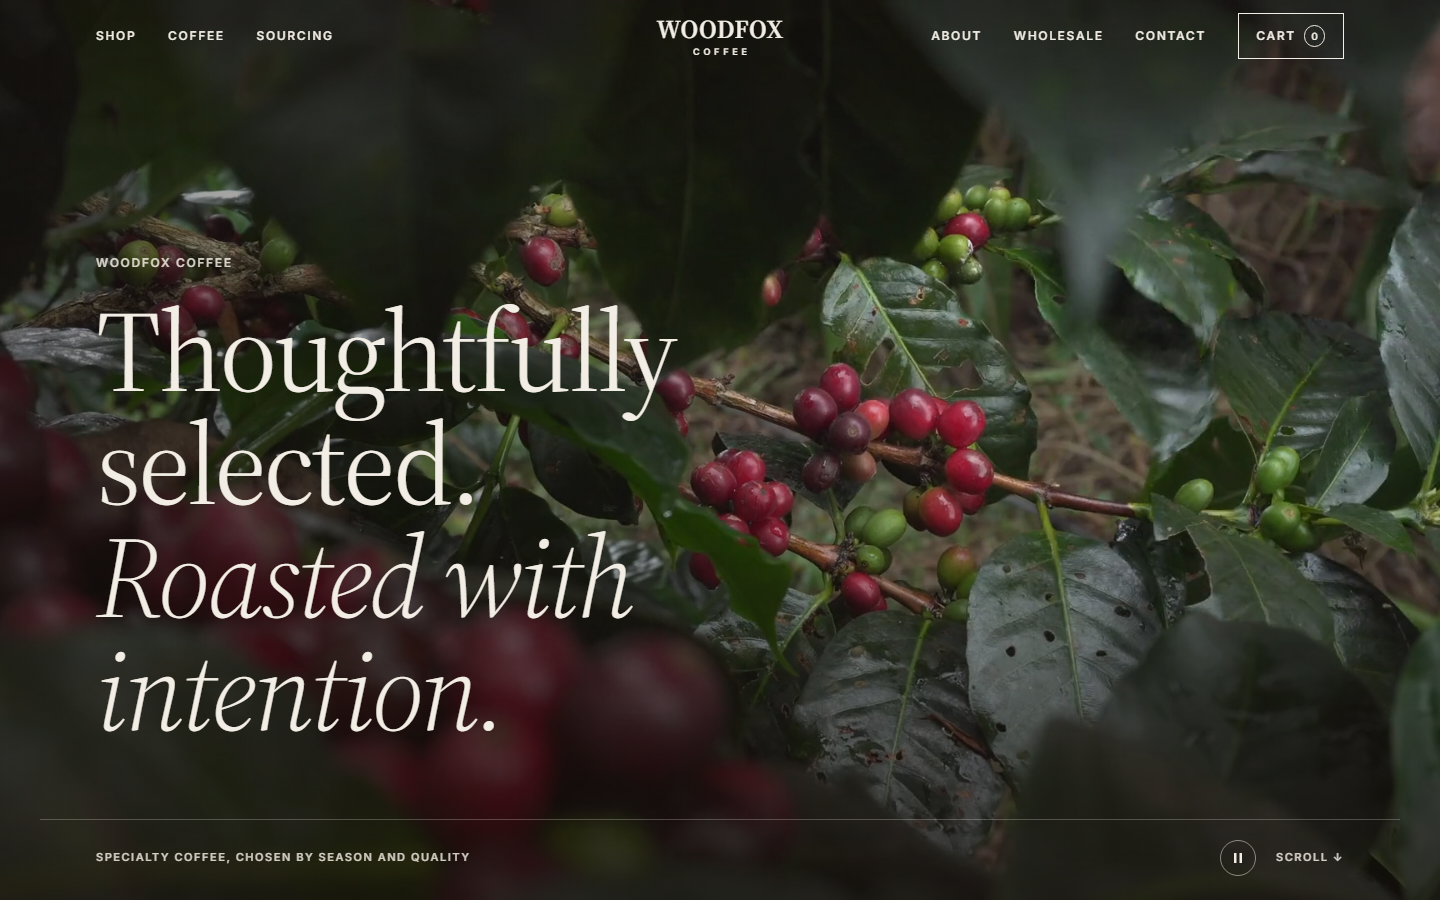
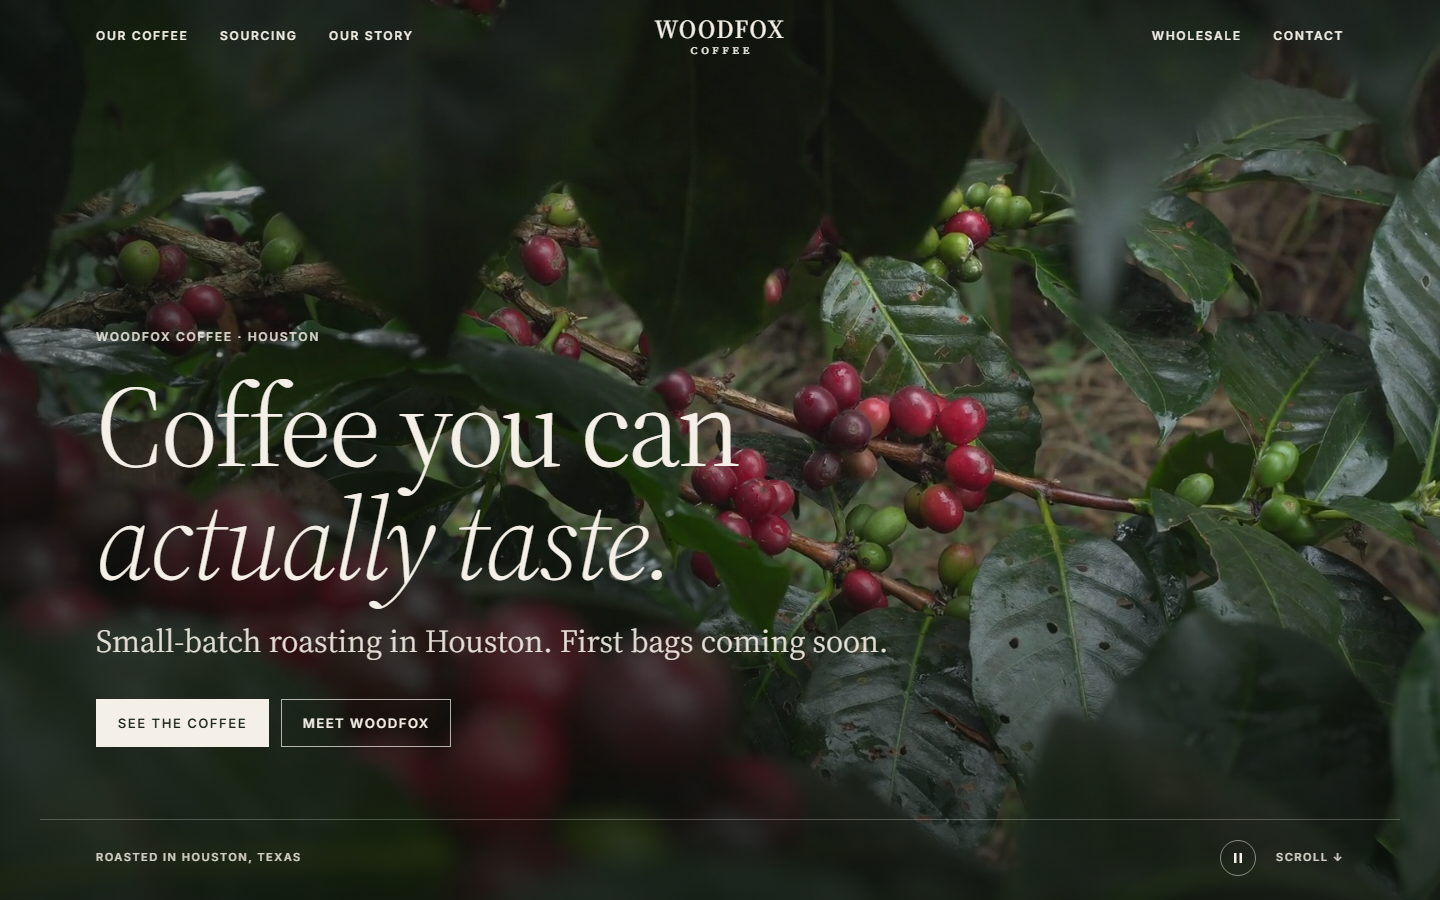
Add NFC business cards project and October build log updates
New NFC Digital Business Cards project with redacted screenshots of three
client cards, plus build log entries on the cards, keeping phone numbers
private, and Woodfox Coffee's production prep. Woodfox case study now
points to woodfoxcoffee.com, shows the packaging concepts, and reflects
ordering being switched off. All-phone-screenshot galleries now sit side
by side.

diff --git a/src/data/site.ts b/src/data/site.ts
@@ -71,7 +71,7 @@ export const repos = [
   },
   {
     name: 'woodfox-roasters',
-    description: 'Website and shop (in preview) for Woodfox Coffee, a young specialty coffee company.',
+    description: 'Website and NFC cards for Woodfox Coffee (woodfoxcoffee.com), a young specialty coffee company.',
     language: 'Astro',
     updated: '2026-10',
   },

diff --git a/src/content/projects/woodfox-roasters.md b/src/content/projects/woodfox-roasters.md
@@ -1,24 +1,25 @@
 ---
 title: Woodfox Coffee
-summary: Website and shop for a young specialty coffee company. Four versions in 2026, from a hand-built page to a content-driven site with a shop, cart and subscriptions in preview.
+summary: Website for a young specialty coffee company, now on its own domain and getting ready to launch. Five versions in 2026, from a hand-built page to a production-ready site with packaging concepts, a plainer voice and NFC event cards.
 status: live
-statusNote: Shop in preview
+statusNote: Pre-launch · ordering off
 year: "2026"
 type: Web product · ecommerce
 categories: [web]
 tech: [Astro, TypeScript, CSS, Markdown content, Browser-stored cart, Stripe-ready checkout]
 links:
-  - { label: Visit live site, href: "https://woodfoxroasters.com/", primary: true }
+  - { label: Visit live site, href: "https://woodfoxcoffee.com/", primary: true }
   - { label: View on GitHub, href: "https://github.com/JRPENA99/woodfox-roasters" }
 cover: ../../assets/projects/woodfox-home.png
-coverAlt: Woodfox Coffee homepage with a full-bleed photo of coffee cherries and the headline "Thoughtfully selected. Roasted with intention."
+coverAlt: Woodfox Coffee homepage with a full-bleed photo of coffee cherries and the headline "Coffee you can actually taste."
 gallery:
-  - src: ../../assets/projects/woodfox-shop.png
-    alt: The Woodfox shop page with filters and a preview notice explaining products are placeholders and checkout isn't taking payments yet.
-    caption: Shop, with an up-front preview notice.
-  - src: ../../assets/projects/woodfox-product.png
-    alt: A Woodfox product page with size, grind, one-time or subscribe-and-save options, quantity and Add to cart.
-    caption: Product page with size, grind and subscribe-and-save. Placeholder product.
+  - src: ../../assets/projects/woodfox-packaging.png
+    alt: The Woodfox Coffee site showing a Single Origin bag mockup labeled In Development and Not on sale yet, with House Blend No. 01 and Espresso Blend listed below.
+    caption: Packaging concepts, clearly labeled as in development and not on sale.
+  - src: ../../assets/build/card-woodfox-event.png
+    alt: A Woodfox Coffee event-team NFC card with Save Contact, call, email and website buttons. Contact details replaced with placeholders.
+    caption: Shared event-team NFC card. Contact details replaced for this screenshot.
+    narrow: true
 timeline:
   - when: Mar 2026
     title: "Version one: hand-built"
@@ -40,13 +41,27 @@ timeline:
     caption: October 1, 2026.
   - when: Oct 2026
     title: "Woodfox Coffee: shop in preview"
-    current: true
     body: Renamed to Woodfox Coffee and added commerce, clearly marked as preview. Products, prices and bag art are placeholders, and checkout explains that payments aren't live.
     points:
       - Filterable shop and product pages with size, grind, and subscribe-and-save (15%)
       - Cart stored in the visitor's browser, so no accounts or server are needed
       - Checkout hands off to a hosted payment page through a configurable endpoint, so card details never touch the site
       - "Next: real products, then Stripe through a small serverless function"
+    image: ../../assets/projects/woodfox-shop.png
+    alt: The Woodfox shop page in preview mode, with a notice that products are placeholders and checkout isn't taking payments.
+    caption: October 4, 2026. The preview shop.
+  - when: Oct 2026
+    title: Getting ready to launch
+    current: true
+    body: Moved to woodfoxcoffee.com and prepared for production. Packaging mockups replaced the drawn placeholders, the palette shifted to forest, rust and copper, and every page was rewritten in a plainer, more human voice. Online ordering is switched off behind a config flag until payments are approved.
+    points:
+      - Three packaging concepts, labeled in development and not on sale
+      - Copy rewrite with no new factual claims
+      - Separate inboxes for general inquiries and orders
+      - NFC cards for the owner and a shared event team
+    image: ../../assets/projects/woodfox-home.png
+    alt: The current Woodfox Coffee homepage with the headline "Coffee you can actually taste." over coffee cherries.
+    caption: woodfoxcoffee.com today.
 featured: true
 order: 1
 ---
@@ -55,7 +70,7 @@ order: 1
 
 Woodfox Coffee is a young specialty coffee company. The site has to introduce the brand, explain how the coffees are chosen, collect interest before the first release, give wholesale buyers a way in, and, now, sell coffee.
 
-It went through four versions in 2026, shown in the progression above. Each one was a response to what the previous one got wrong.
+It went through five versions in 2026, shown in the progression above. Each one was a response to what the previous one got wrong.
 
 ## The Problem
 
@@ -63,19 +78,21 @@ A roaster that buys by season has a menu that keeps changing. The early versions
 
 ## The Idea
 
-Treat the site as a brand story that rarely changes, plus a small content system for the coffees that changes all the time. Then add commerce without adding a backend: the shop and cart run in the browser, and payment happens on a hosted checkout page.
+Treat the site as a brand story that rarely changes, plus a small content system for the coffees that changes all the time. Commerce is built but switched off until the business is ready: the shop and cart run in the browser, and payment will happen on a hosted checkout page.
 
 ## What I Built
 
 - **Information architecture** around how people arrive: Shop, Coffee, Sourcing, About, Wholesale, Contact.
 - **A coffee content collection.** One Markdown file per coffee, with a status (`upcoming`, `available`, `sold-out`) that drives listings and pages.
-- **A shop in preview mode.** Product pages with size, grind and subscribe-and-save; a browser-stored cart; and a checkout page ready to hand off to Stripe or another hosted provider. A visible notice on every shop page says products are placeholders and no payment can be taken.
+- **A shop, built and switched off.** Product pages with size, grind and subscribe-and-save, a browser-stored cart, and a checkout ready to hand off to a hosted provider. It sits behind a config flag, so the live site shows coffees with no prices, cart or checkout until payments are approved.
+- **Packaging concepts** for three coffees, labeled in development and never presented as product specs.
+- **NFC cards** for the owner and a shared event team. See [NFC Digital Business Cards](/projects/nfc-cards/).
 - **Copy refinement.** Most of the iteration was in the words. "How we choose" became five short principles instead of a paragraph of adjectives.
 - **Fast, responsive pages.** Static HTML with very little JavaScript, plus a pause control on the hero video.
 
 ## Ecommerce Considerations
 
-GitHub Pages only serves static files, and a payment provider needs a small piece of server code to create a checkout session securely. The plan is a tiny serverless function that holds the secret key, so the website itself never does. Until real products exist, the checkout says so instead of pretending.
+GitHub Pages only serves static files, and a payment provider needs a small piece of server code to create a checkout session securely. The plan is a tiny serverless function that holds the secret key, so the website itself never does. Until that's approved, ordering stays off rather than pretending to work.
 
 ## Challenges
 
@@ -89,6 +106,6 @@ Separating what changes from what doesn't was the best structural decision. Once
 
 ## What's Next
 
-- Replace placeholder products and photography with Woodfox's own
-- Connect the list and inquiry forms
-- First coffee release, then switch on hosted checkout
+- Finalize the first three coffees and their packaging
+- Connect the inquiry forms to a form service
+- Approve payments, then switch ordering on

diff --git a/src/content/projects/nfc-cards.md b/src/content/projects/nfc-cards.md
@@ -1,0 +1,80 @@
+---
+title: NFC Digital Business Cards
+summary: Tap-to-open business cards for three different clients, each built into the client's own website. One-tap Save Contact, no app, no account, and phone numbers kept off the public web.
+status: live
+year: "2026"
+type: Web product · client work
+categories: [web]
+tech: [Astro, Static HTML, vCard 3.0, NFC (NTAG), Build-time generation, Privacy by design]
+cover: ../../assets/projects/nfc-cards-cover.png
+coverAlt: Three digital business cards side by side on phone screens, a dark technical card, a navy logistics card and a brown coffee-brand card, with names, emails and numbers replaced by placeholders.
+gallery:
+  - src: ../../assets/build/card-portfolio.png
+    alt: A dark digital business card with a JP monogram, Save contact button, email and website rows, and LinkedIn, GitHub and Portfolio links. Personal details replaced with placeholders.
+    caption: "My own card: matches this site's design. Personal details replaced for this screenshot."
+    narrow: true
+  - src: ../../assets/build/card-professional.png
+    alt: A navy digital business card for a logistics account executive, with initials, industry and specialty panels, Save Contact, and call, email, LinkedIn and website buttons. Personal details replaced.
+    caption: A logistics professional's card, with work and personal contact sections. Details replaced.
+    narrow: true
+  - src: ../../assets/build/card-woodfox-event.png
+    alt: A brown Woodfox Coffee event-team card with a flowing silk background, Save Contact, call, email and website buttons, and a QR code. Contact details replaced.
+    caption: A shared event-team card for a coffee brand, with no personal details at all. Details replaced.
+    narrow: true
+workflowTitle: How a tap becomes a saved contact
+workflow:
+  - "NFC tag | holds only a URL"
+  - "Card page | static, noindex, no app"
+  - "Save Contact | vCard 3.0 file"
+  - "Phone contacts | one tap to add"
+featured: false
+order: 6
+---
+
+## Overview
+
+A physical NFC card that opens a digital business card when someone taps it with their phone. One tap on **Save Contact** adds you to their phone. No app, no account, no subscription service.
+
+I built three versions in October 2026, each living inside its owner's existing website and matching its design:
+
+- **My own card**, built into this site
+- **A logistics account executive's card**, with separate work and personal contact sections
+- **A coffee brand's cards**: one for the owner, plus three shared **event-team** cards that carry only business details, so staff can hand them out at markets and events
+
+The screenshots above have every name, email and phone number replaced with placeholders.
+
+## The Problem
+
+Paper cards get lost, and most "digital business card" products are subscriptions that host your contact details on someone else's platform. Typing a phone number from a card into Contacts is exactly the kind of small, repeated friction that should just go away.
+
+## The Idea
+
+The NFC tag holds nothing but a URL. Everything else is an ordinary, fast, static web page on a domain the person already owns, with a standards-based contact file behind the Save button. If the tag is lost, nothing private is on it.
+
+## What I Built
+
+- **One-tap Save Contact.** A vCard 3.0 file generated at build time. Version 3.0 because iPhone Contacts handles it more reliably than 4.0. Line folding and escaping follow the spec, so contacts import cleanly.
+- **Reusable profile data.** Each card is one entry in a typed list. Adding a person means adding an entry, not copying a page.
+- **Unlisted pages.** Cards are `noindex`, left out of the sitemap, and not linked from site navigation.
+- **Design that matches each brand.** A dark technical card, a navy logistics card with an animated silk background, and copper-and-brown coffee cards with flowing ribbons, all with reduced-motion fallbacks.
+- **A private phone number on a public static site.** See below.
+
+## Keeping Phone Numbers Private
+
+A static site can't check passwords, and these repositories are public, so a phone number in the code is a public phone number.
+
+The number isn't in the code at all. It's injected at build time from repository secrets and published only at an unguessable path derived from a private key. The NFC tag carries that key after a `#` in the URL. Browsers never send that part to the server, so it doesn't show up in logs or search results. With the key, the card fetches the number and a full contact file. Without it, the card simply has no phone number.
+
+Changing the key retires every old link.
+
+## Challenges
+
+- **Static hosting, private data.** Solved with build-time secrets and key-derived file paths instead of a server.
+- **QR codes.** I added build-time QR codes, then removed them from the personal cards. An always-visible QR code makes the card easy to re-share in ways the owner didn't intend.
+- **An animation bug.** A global CSS reset capped the silk-ribbon SVGs at 100% width, so the looping ribbons slid off screen and jumped back. Fixed by overriding the reset for those elements.
+- **Mobile edge cases.** iPhone and Android handle contact files differently, and NFC behaves differently with the screen locked. Every card was checked at phone sizes, with reduced-motion fallbacks where they animate.
+
+## What's Next
+
+- **Contact exchange** (planned): an optional "Exchange Contact" form so the person tapping can share their details back, delivered by email through a free form backend, with consent and spam protection. Designed, not built yet.
+- More event cards as the coffee brand starts doing markets

diff --git a/src/content/build/2026-10-woodfox-production-prep.md b/src/content/build/2026-10-woodfox-production-prep.md
@@ -1,0 +1,21 @@
+---
+title: "Woodfox Coffee: Getting Ready to Launch"
+date: 2026-10-15
+project: woodfox-roasters
+status: live
+tags: [web, brand, copy, ecommerce]
+summary: New domain, packaging mockups, a copper-and-forest palette, a full copy rewrite in a plainer voice, and online ordering switched off until payments are approved.
+images:
+  - { src: ../../assets/projects/woodfox-packaging.png, alt: "The Woodfox Coffee site showing a Single Origin bag mockup labeled In Development and Not on sale yet." }
+---
+
+Woodfox Coffee moved a big step toward launch this week.
+
+- **New home.** The site now lives at **woodfoxcoffee.com**.
+- **Packaging concepts.** The drawn placeholder bags were replaced with three packaging mockups: Single Origin, House Blend No. 01 and Espresso Blend. They're clearly labeled **In development** and **Not on sale yet**, and the text on the bags isn't treated as a product spec.
+- **Brand palette.** Forest, rust and cream from the business plan, with restrained copper accents and a serif wordmark that matches the packaging.
+- **A plainer voice.** I rewrote the copy across every page: shorter sentences, specific details, fewer taglines, no new factual claims. "Coffee you can actually taste" replaced the more polished, more generic version.
+- **Ordering off, on purpose.** The shop from the preview is now behind a config flag. No prices, cart or checkout until a payment provider is set up and approved.
+- **Contact routing.** General inquiries and orders go to separate inboxes, and forms open the visitor's email app until a form service is connected.
+
+The same week, the brand also got its first NFC cards: one for the owner and three shared event-team cards for markets. More in [the NFC cards project](/projects/nfc-cards/).

diff --git a/src/content/build/2026-10-nfc-business-cards.md b/src/content/build/2026-10-nfc-business-cards.md
@@ -1,0 +1,28 @@
+---
+title: Business Cards You Tap Instead of Type
+date: 2026-10-14
+project: nfc-cards
+status: live
+tags: [web, nfc, vcard, astro]
+summary: Built tap-to-open NFC business cards into three different client sites, a tech card, a logistics card and a coffee brand's event-team cards, each with one-tap Save Contact.
+images:
+  - { src: ../../assets/projects/nfc-cards-cover.png, alt: "Three NFC digital business cards side by side, with personal details replaced by placeholders." }
+---
+
+This week's thread: NFC business cards.
+
+A physical card holds a single URL. Tap it with a phone and a digital card opens, with one big **Save Contact** button that drops a contact file straight into the phone's address book. No app, no account, no subscription platform holding anyone's details.
+
+Three versions so far, each built into its owner's own website:
+
+- **Mine**, at `/card` on this site, in the same dark, technical style
+- **A logistics account executive's card**, navy with an animated silk background and separate work and personal sections
+- **A coffee brand's cards**: one for the owner, plus three shared event-team cards with only business details, for markets and pop-ups
+
+A few decisions worth writing down:
+
+- **vCard 3.0, not 4.0.** iPhone Contacts is more reliable with 3.0. Lines are folded at 75 octets and special characters escaped, per the spec.
+- **One data file per person.** Adding a card is adding an entry, not copying a page.
+- **Unlisted by default.** No search indexing, no sitemap, no nav links.
+
+Names, numbers and emails in the screenshot are placeholders.

diff --git a/src/content/build/2026-10-private-phone-numbers.md b/src/content/build/2026-10-private-phone-numbers.md
@@ -1,0 +1,25 @@
+---
+title: Keeping a Phone Number Off the Public Web
+date: 2026-10-15
+project: nfc-cards
+status: live
+tags: [privacy, security, static-sites]
+summary: A business card needs a phone number, but a static site in a public repo can't keep secrets. Here's how the number stays private anyway, and why I removed the QR code.
+---
+
+The first version of my NFC card had the phone number right in the page. Then I realized the obvious: the repository is public, the page is public, and anything on it can be scraped.
+
+The constraint: static hosting, so no server and no login.
+
+The approach:
+
+1. **The number isn't in the code.** It comes from repository secrets at build time.
+2. **It's published only at an unguessable path**, derived by hashing the card's id with a private key.
+3. **The NFC tag carries the key** after a `#` in the URL. Browsers never send that part to the server, so it never appears in logs or search results.
+4. **With the key**, the card fetches the number and a full contact file. Without it, there's simply no phone number on the card.
+
+Rotating the key retires every old link: generate a new one, rebuild, rewrite the tag.
+
+I also **removed the QR code**. It was a nice touch, but an always-visible QR code makes the card easy to pass around in ways the owner didn't choose. A tap from a card in your hand is more deliberate.
+
+Honest limitation: anyone you share the link with can forward it. This doesn't make a number secret. It keeps it off the open web and out of search engines, which is the actual goal.
